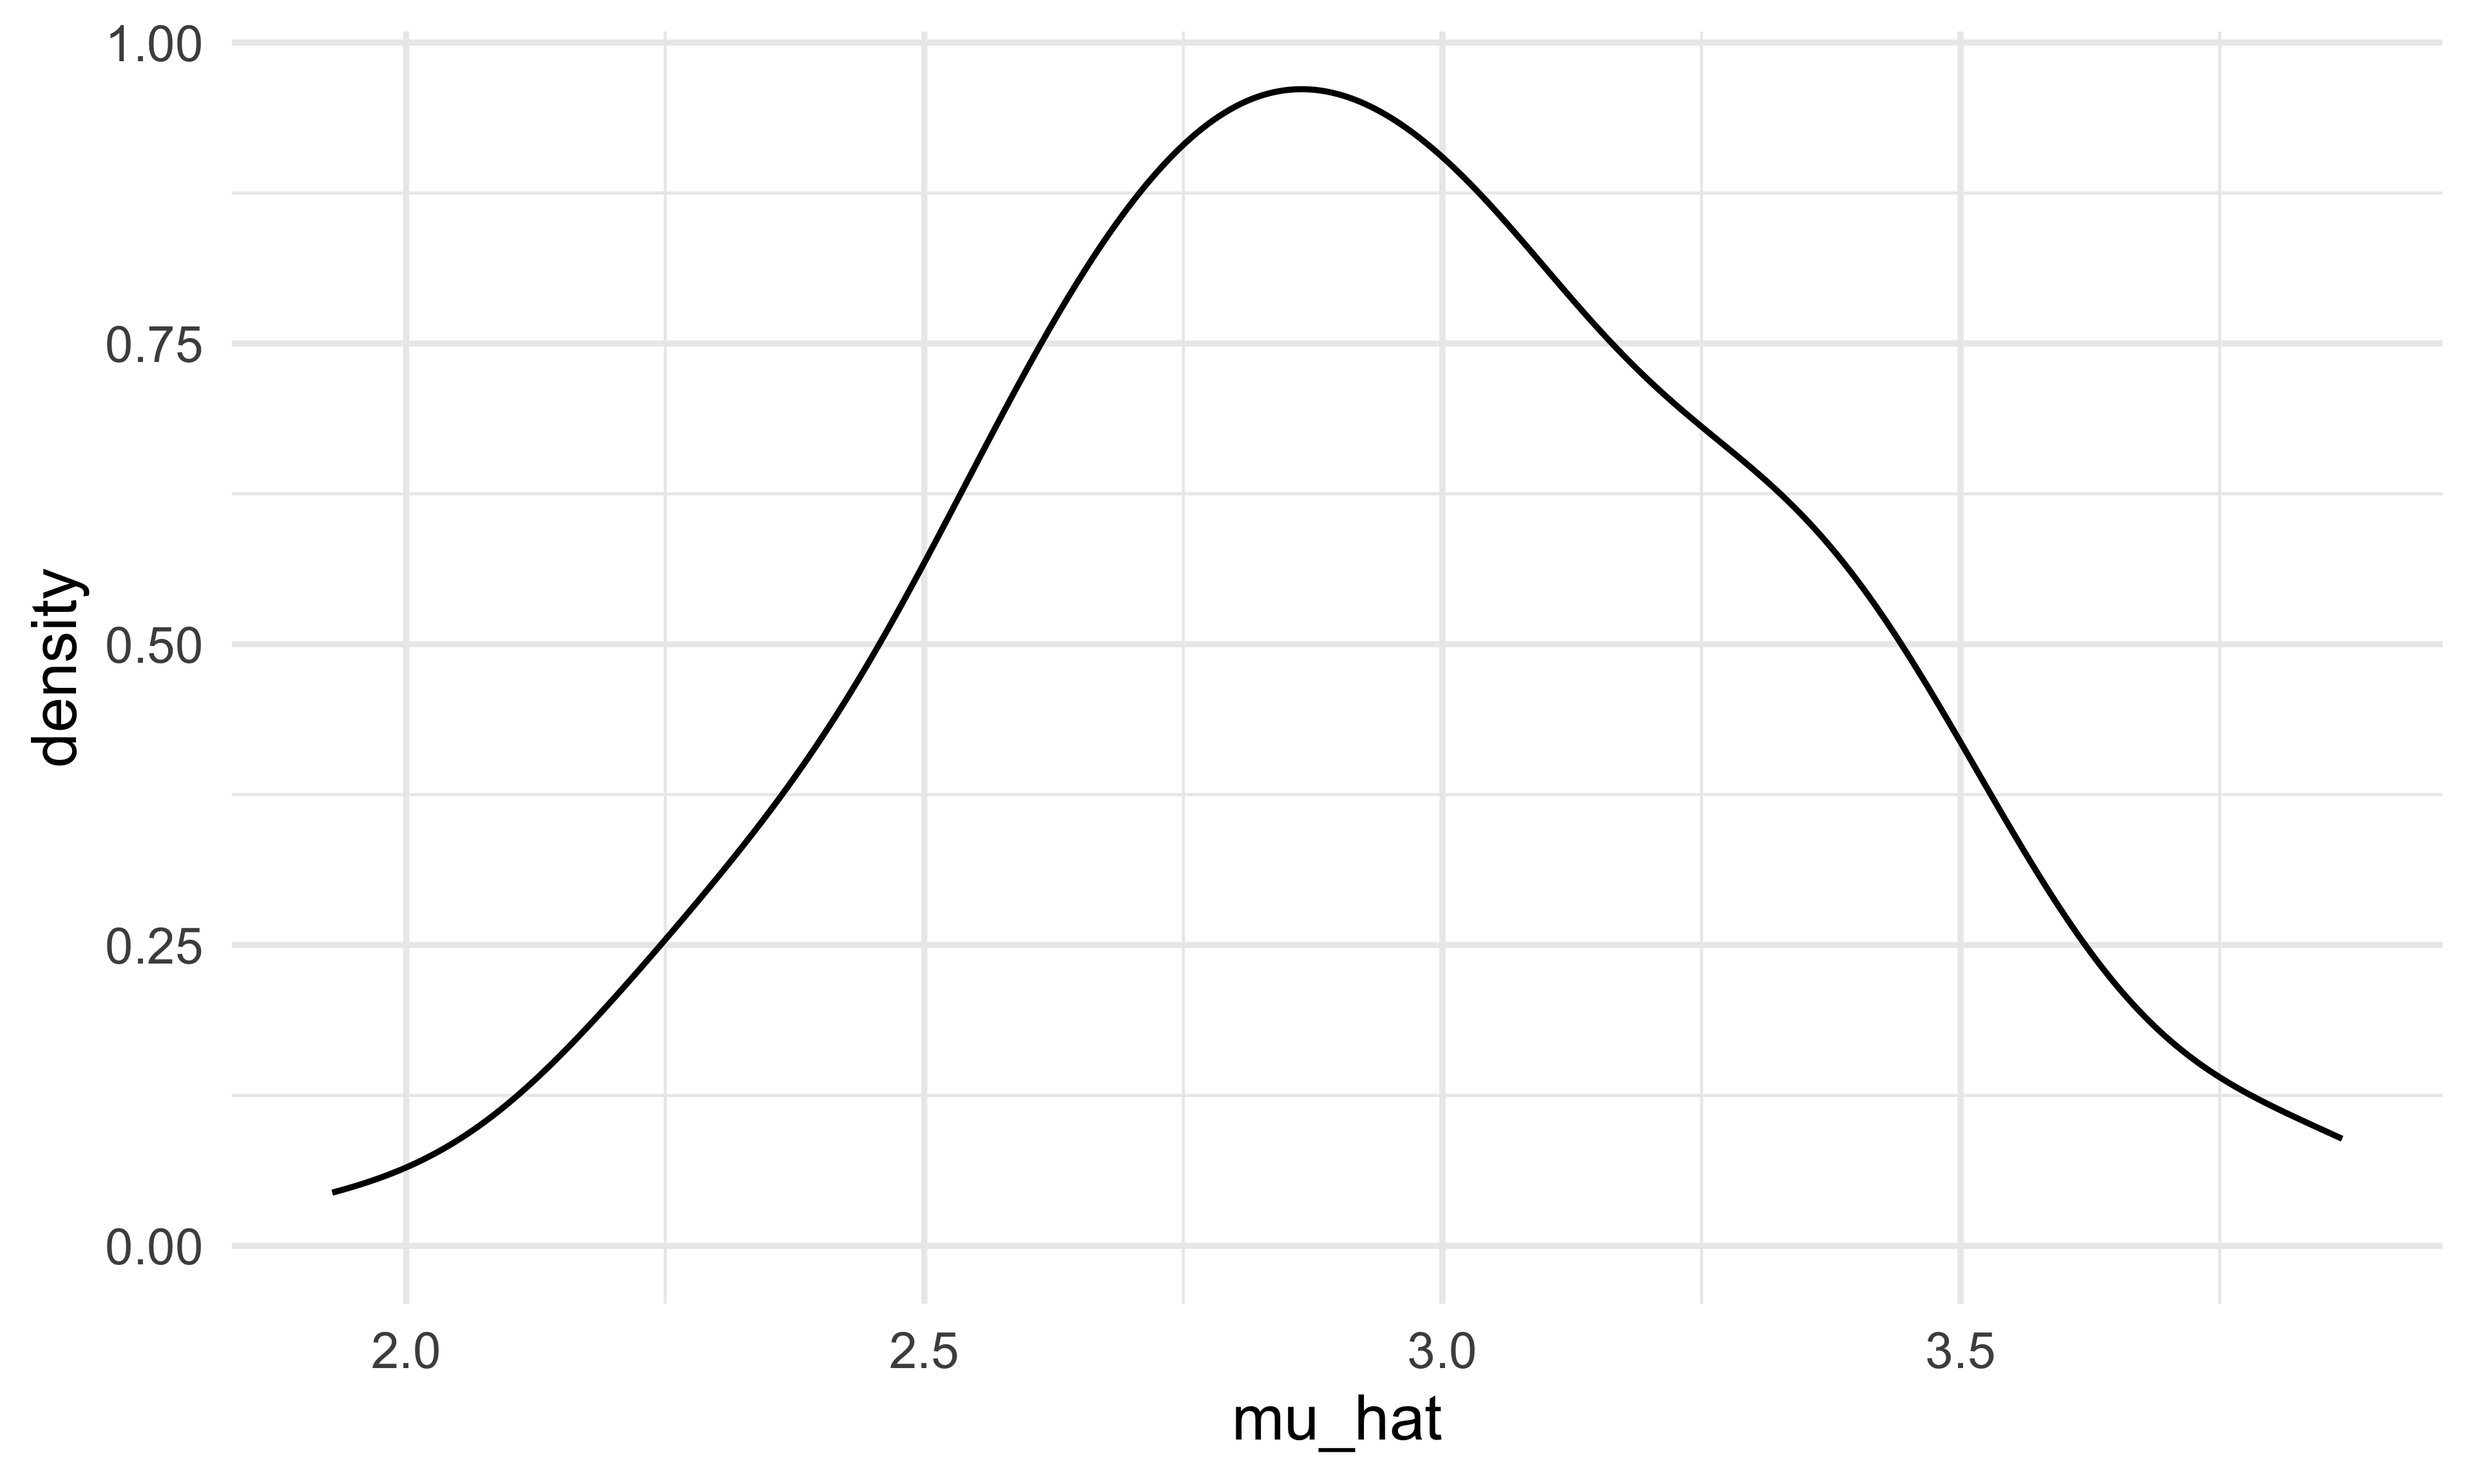
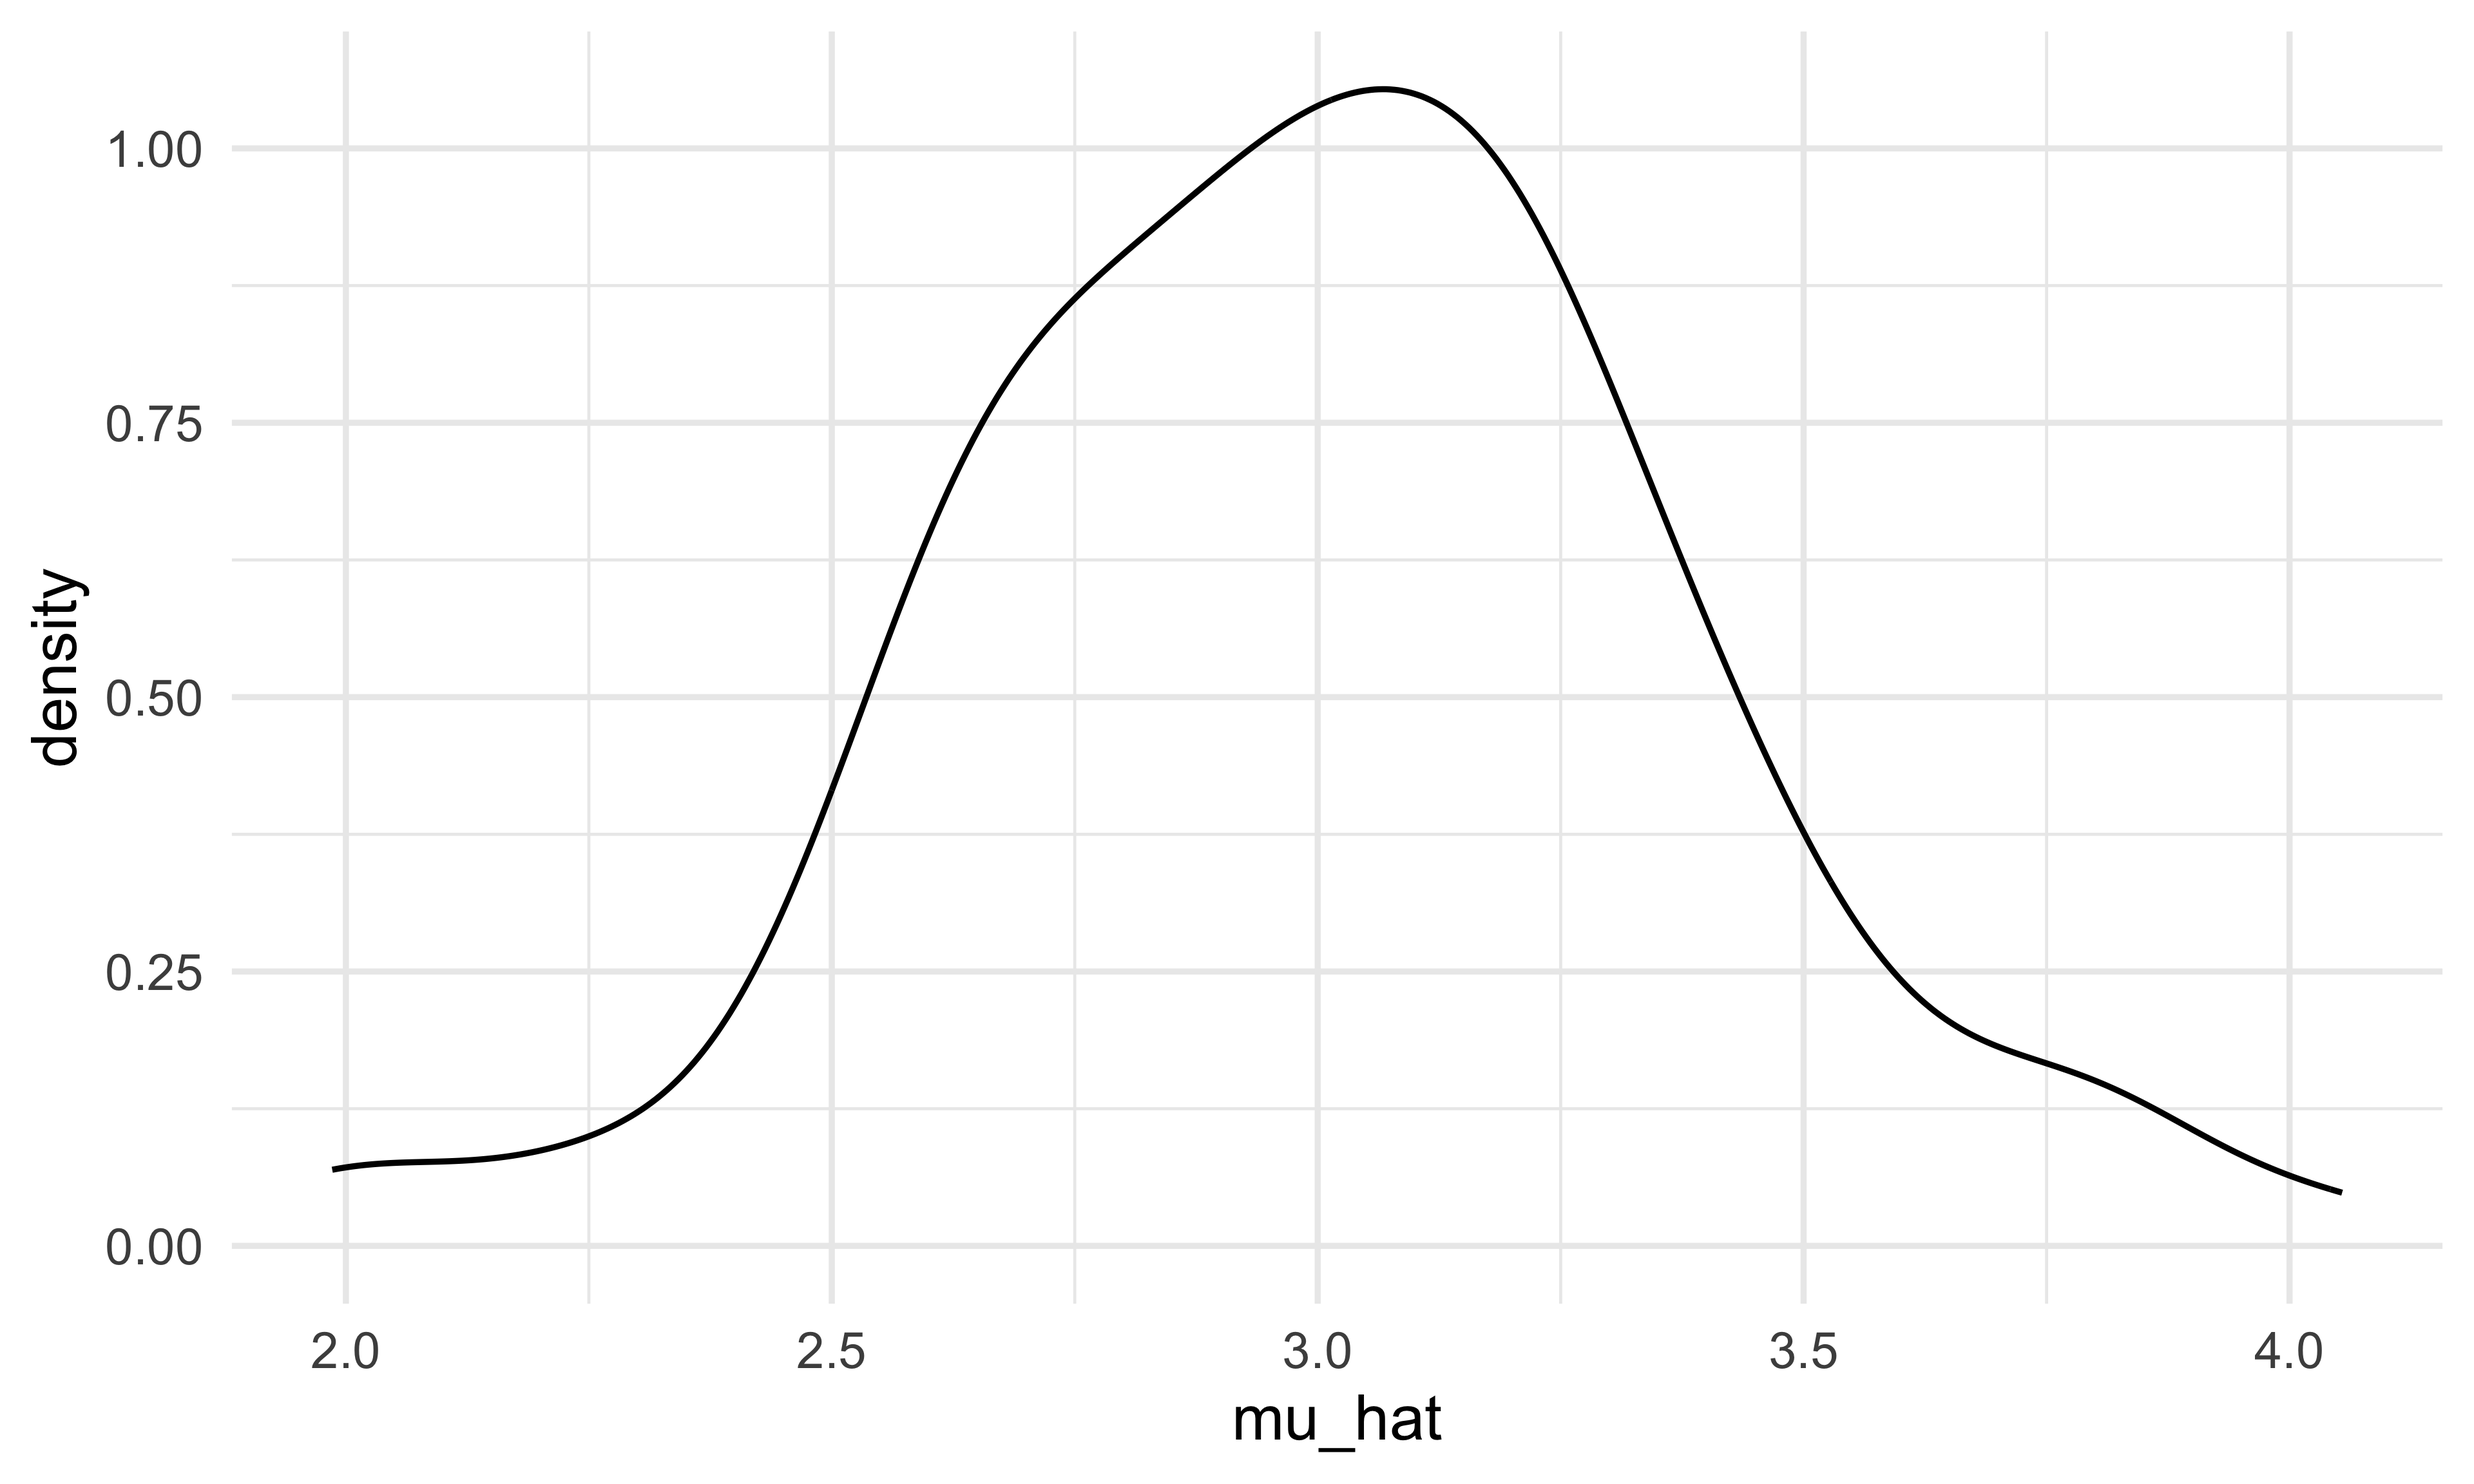
simulation completed

diff --git a/Simulation.md b/Simulation.md
@@ -33,7 +33,7 @@ sim_mean_sd(n_subj = 400)
     ## # A tibble: 1 × 2
     ##   mu_hat sigma_hat
     ##    <dbl>     <dbl>
-    ## 1   2.98      2.04
+    ## 1   2.95      2.05
 
 can I “verify” the central limit theorem?
 
@@ -57,7 +57,7 @@ Try to repeat with a map statement
 ``` r
 sim_results_df =
   expand_grid(
-    iter = 1:100,
+    iter = 1:1000,
     sample_size = c(30, 60, 90, 120)
   ) |> 
   mutate(
@@ -65,3 +65,192 @@ sim_results_df =
   ) |> 
   unnest(results)
 ```
+
+Let’s look at this:
+
+``` r
+sim_results_df |> 
+  mutate(
+    sample_size = str_c("n= ", sample_size),
+    sample_size = fct_inorder(sample_size)
+    ) |> 
+  ggplot(aes(x = sample_size, y = mu_hat)) +
+  geom_violin()
+```
+
+<img src="Simulation_files/figure-gfm/unnamed-chunk-6-1.png" width="90%" />
+
+Let’s try to summarize ..
+
+``` r
+sim_results_df |> 
+  group_by(sample_size) |> 
+  summarize(
+    emp_mean = mean(mu_hat),
+    emp_se = sd(mu_hat)
+  )
+```
+
+    ## # A tibble: 4 × 3
+    ##   sample_size emp_mean emp_se
+    ##         <dbl>    <dbl>  <dbl>
+    ## 1          30     2.97  0.366
+    ## 2          60     3.01  0.258
+    ## 3          90     3.01  0.208
+    ## 4         120     3.00  0.184
+
+## Simple linear regression
+
+``` r
+sim_df =
+  tibble(
+    x = rnorm(30, mean = 1, sd = 1),
+    y = 2 + 3*x + rnorm(30,0,1)
+  )
+
+sim_df |> 
+  ggplot(aes(x = x, y = y)) +
+  geom_point()
+```
+
+<img src="Simulation_files/figure-gfm/unnamed-chunk-8-1.png" width="90%" />
+
+``` r
+slr_fit = lm(y ~ x, data = sim_df)
+
+coef(slr_fit)
+```
+
+    ## (Intercept)           x 
+    ##    2.472672    2.876160
+
+turn this into a function
+
+``` r
+sim_regression = function (n_subj, beta_0 = 2, beta_1 = 3 ){
+  sim_df = 
+  tibble(
+    x = rnorm(n_subj, mean = 1, sd = 1),
+    y = beta_0 + beta_1*x + rnorm(n_subj,0,1)
+  )
+  
+  slr_fit = lm(y ~ x, data = sim_df)
+  
+  tibble(
+    beta0_hat = coef(slr_fit)[1],
+    beta1_hat = coef(slr_fit)[2]
+    )
+}
+```
+
+``` r
+sim_regression(n_subj = 30)
+```
+
+    ## # A tibble: 1 × 2
+    ##   beta0_hat beta1_hat
+    ##       <dbl>     <dbl>
+    ## 1      2.12      2.84
+
+``` r
+output = vector("list", length = 500)
+
+for (i in 1:500){
+  
+  output[[i]] = sim_regression(n_subj = 30)
+  
+}
+
+output |> 
+  bind_rows()
+```
+
+    ## # A tibble: 500 × 2
+    ##    beta0_hat beta1_hat
+    ##        <dbl>     <dbl>
+    ##  1      1.75      3.15
+    ##  2      2.01      2.87
+    ##  3      1.92      3.19
+    ##  4      2.48      2.89
+    ##  5      2.07      3.16
+    ##  6      1.67      3.20
+    ##  7      2.21      2.84
+    ##  8      2.20      2.78
+    ##  9      1.82      2.96
+    ## 10      2.11      2.77
+    ## # ℹ 490 more rows
+
+``` r
+slr_sim_results_df = 
+  expand_grid(
+    sample_size = 30, 
+    iter = 1:500
+  ) |> 
+  mutate(
+    results = map(sample_size, sim_regression)
+  ) |> 
+  unnest(results)
+
+slr_sim_results_df |> 
+  ggplot(aes(x = beta0_hat, y = beta1_hat)) + 
+  geom_point()
+```
+
+<img src="Simulation_files/figure-gfm/unnamed-chunk-12-1.png" width="90%" />
+
+## One more example!
+
+Inner part
+
+``` r
+birthdays = sample(1:365, 5, replace = TRUE)
+
+repeated_bday = length(unique(birthdays)) < 5 # if repeat, TRUE. No repeat,FALSE.
+repeated_bday
+```
+
+Put this into a function
+
+``` r
+bday_sim = function(n_room){
+  
+  birthdays = sample(1:365, n_room, replace = TRUE)
+  
+  repeated_bday = length(unique(birthdays)) < n_room 
+  
+  repeated_bday
+
+}
+```
+
+``` r
+bday_sim(20)
+```
+
+``` r
+bday_sim_results = 
+  expand_grid(
+    bdays = 2:50,
+    iter = 1:10000
+  ) |> 
+  mutate(
+    result = map_lgl(bdays, bday_sim)
+  ) |> 
+  group_by(
+    bdays
+  ) |> 
+  summarize(
+    prob_repeat = mean(result)
+  )
+```
+
+plot this
+
+``` r
+bday_sim_results |> 
+  ggplot(aes(x = bdays, y = prob_repeat)) +
+  geom_point() +
+  geom_line()
+```
+
+<img src="Simulation_files/figure-gfm/unnamed-chunk-17-1.png" width="90%" />
